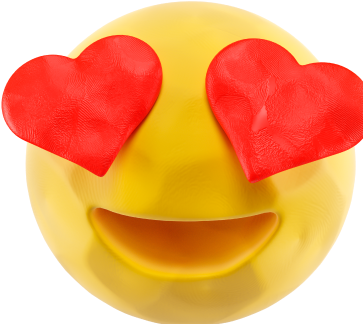
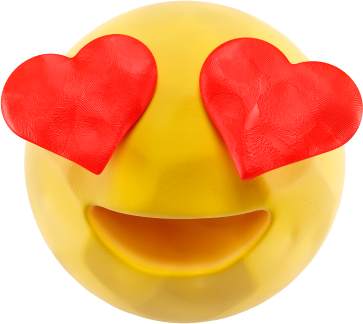
Improvements!

diff --git a/app/about/components/team/index.js b/app/about/components/team/index.js
@@ -45,7 +45,7 @@ const Team = () => {
       </Container>
       <Member
         name="Kyrylo Orlov"
-        image="/kyrylo.jpg"
+        image="/kyrylo.webp"
         pos="Founding Director"
         num={1}
       />
@@ -57,13 +57,13 @@ const Team = () => {
       />
       <Member
         name="Ismaeel Akram"
-        image="/ismaeel.jpg"
+        image="/ismaeel.webp"
         pos="Lead App Developer"
         num={3}
       />
       <Member
         name="Chanul Dandeniya"
-        image="/chanul.jpg"
+        image="/chanul.webp"
         pos="Lead strategist"
         num={4}
       />

diff --git a/components/footer/index.js b/components/footer/index.js
@@ -224,7 +224,7 @@ const Footer = () => {
         <FerrisWheel ref={ferrisWheelRef}>
           {new Array(items).fill(0).map((_, index) => (
             <ItemWrapper key={index} className="ferris-item">
-              <img src="/emoji.png" alt="Heart eyes emoji" />
+              <img src="/emoji.webp" alt="Heart eyes emoji" />
             </ItemWrapper>
           ))}
         </FerrisWheel>

diff --git a/app/layout.js b/app/layout.js
@@ -73,7 +73,7 @@ export const metadata = {
 
 export default function RootLayout({ children }) {
   return (
-    <html>
+    <html lang="en-US">
       <head>
         <link rel="stylesheet" href="https://use.typekit.net/lrk0fqe.css" />
 

diff --git a/styles/themes.js b/styles/themes.js
@@ -2,5 +2,5 @@ export const lightTheme = {
   body: '228, 228, 232',
   text: '18, 18, 18',
   accent1: '255, 255, 255',
-  accent2: '143, 143, 143',
+  accent2: '115, 115, 115',
 }
